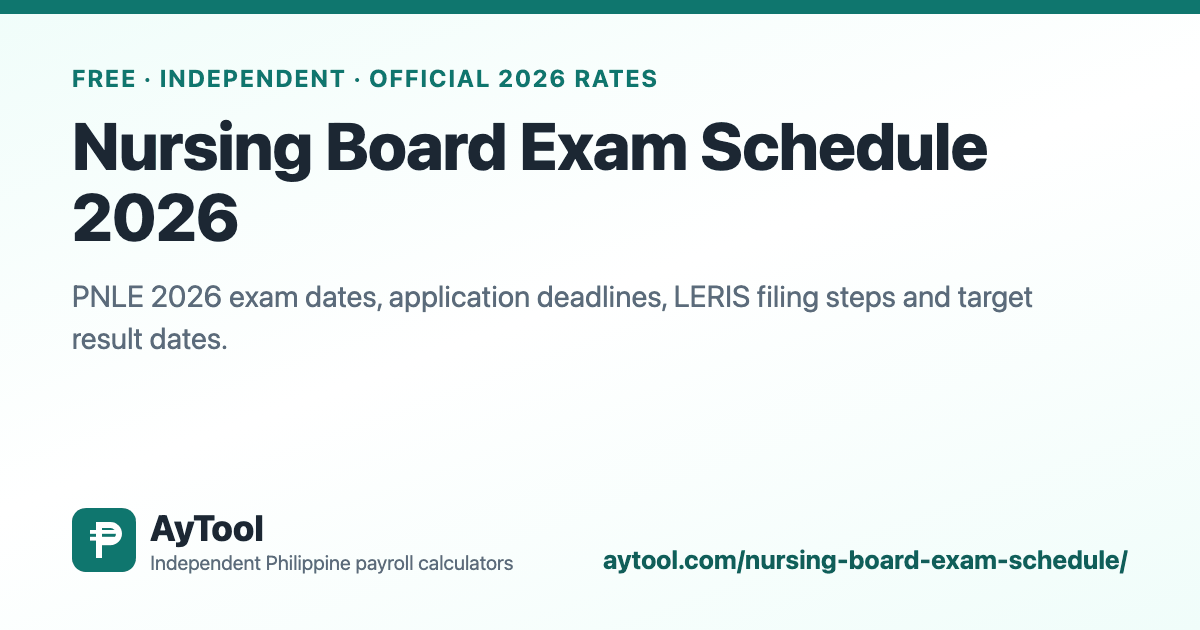
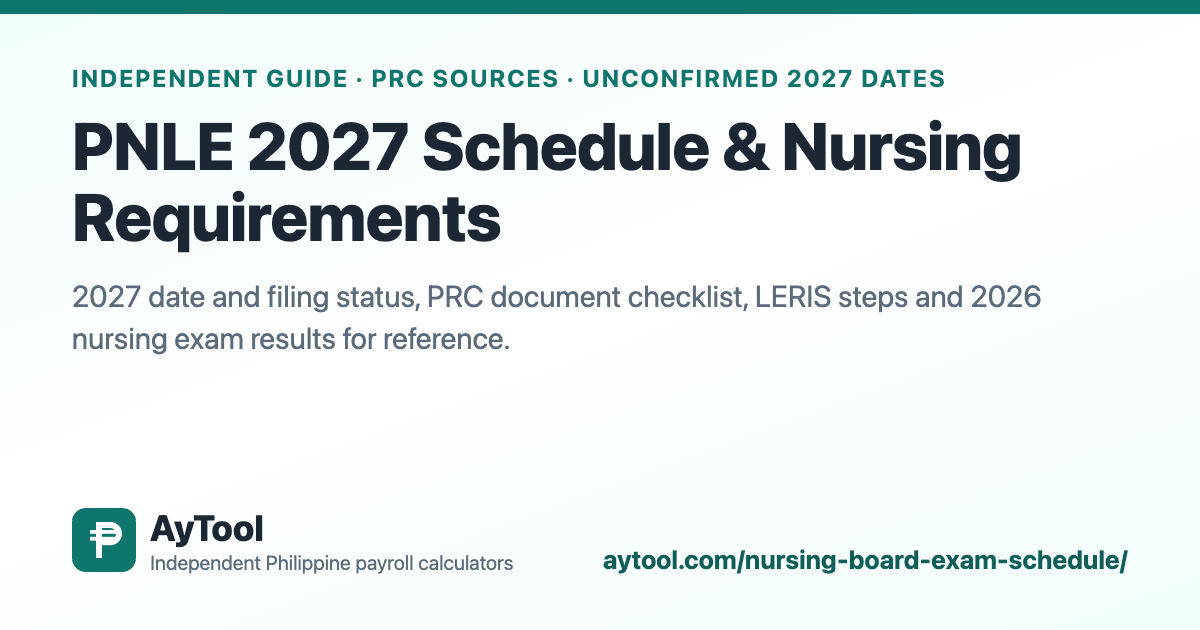
Clarify PRC 2027 schedule status and improve exam search content

diff --git a/src/lib/pages.ts b/src/lib/pages.ts
@@ -282,10 +282,11 @@ export const TOOL_PAGES: Record<string, PageRef> = {
   },
   prc: {
     href: '/prc-board-exam-schedule/',
-    label: 'PRC Board Exam Schedule 2026',
+    label: 'PRC Board Exam Schedule 2026 & 2027 Status',
     short: 'PRC Exam Schedule',
-    blurb: 'Searchable 2026 PRC licensure exam calendar with application deadlines.',
+    blurb: 'Official 2026 exam dates and filing windows, with a dated 2027 source check and profession guides.',
     priority: 'P2',
+    ogKicker: 'Independent guide · Official 2026 dates · 2027 status',
   },
   prcResults: {
     href: '/board-exam-results-2026/',
@@ -297,10 +298,11 @@ export const TOOL_PAGES: Record<string, PageRef> = {
   },
   nursingSchedule: {
     href: '/nursing-board-exam-schedule/',
-    label: 'Nursing Board Exam Schedule 2026',
+    label: 'PNLE 2027 Schedule & Nursing Requirements',
     short: 'Nursing (PNLE)',
-    blurb: 'PNLE 2026 exam dates, application deadlines, LERIS filing steps and target result dates.',
+    blurb: '2027 date and filing status, PRC document checklist, LERIS steps and 2026 nursing exam results for reference.',
     priority: 'P2',
+    ogKicker: 'Independent guide · PRC sources · Unconfirmed 2027 dates',
   },
   letSchedule: {
     href: '/let-board-exam-schedule/',

diff --git a/src/lib/lastmod.test.ts b/src/lib/lastmod.test.ts
@@ -24,6 +24,16 @@ describe('lastmod', () => {
     }
   });
 
+  it('exam source checks and subscription copy participate in page freshness', () => {
+    for (const p of Object.keys(PAGE_DATA).filter((p) => p.endsWith('-board-exam-schedule/'))) {
+      const sources = pageSourceFiles(p);
+      expect(sources).toContain('src/data/prc/next-schedule-status.json');
+      expect(sources).toContain('src/components/PrcScheduleStatus.astro');
+      if (p !== '/prc-board-exam-schedule/') expect(sources).toContain('src/components/PrcSubscribe.astro');
+    }
+    expect(pageSourceFiles('/sss-contribution-table/')).not.toContain('src/data/prc/next-schedule-status.json');
+  });
+
   it('every calculator/schedule page that renders rule data is registered', () => {
     // Prose-only guides (OEC, the four "how to get a number" pages) render no dataset.
     const proseOnly = new Set([

diff --git a/docs/ops-calendar.md b/docs/ops-calendar.md
@@ -76,6 +76,13 @@
 
 ## 2026–2027 当前周期的具体日期速查
 
+2026-11-09 搜索内容修订：考试页的未来日程核查记录集中在 `src/data/prc/next-schedule-status.json`。
+`checked_on` 只在实际核对官方来源后更新，夜间构建不刷新它。PRC 新日程发布后，应先核实并录入年度数据，
+再同步修订此记录、`PrcScheduleStatus.astro`、主力页和专业模板的状态文案及 FAQ，撤下不再适用的“未核实”状态。
+不要按预计的 11 月 15 日提前生成考试日期，或把前年日期加一年作为正式考试日/倒计时。
+本轮 GSC 基线：10/25—29 为 206 点击、14,428 展示；11/02—06 为 1 点击、249 展示。
+发布后以相同页面和查询分组比较完整 7 天、28 天数据；页面已上线不等于排名已经恢复。
+
 | 日期 | 事项 |
 |---|---|
 | 2026-08-20 | ⬅ 最近的一个：8/21 Ninoy + 8/31 National Heroes 节前刷新 + FB 图卡 |
